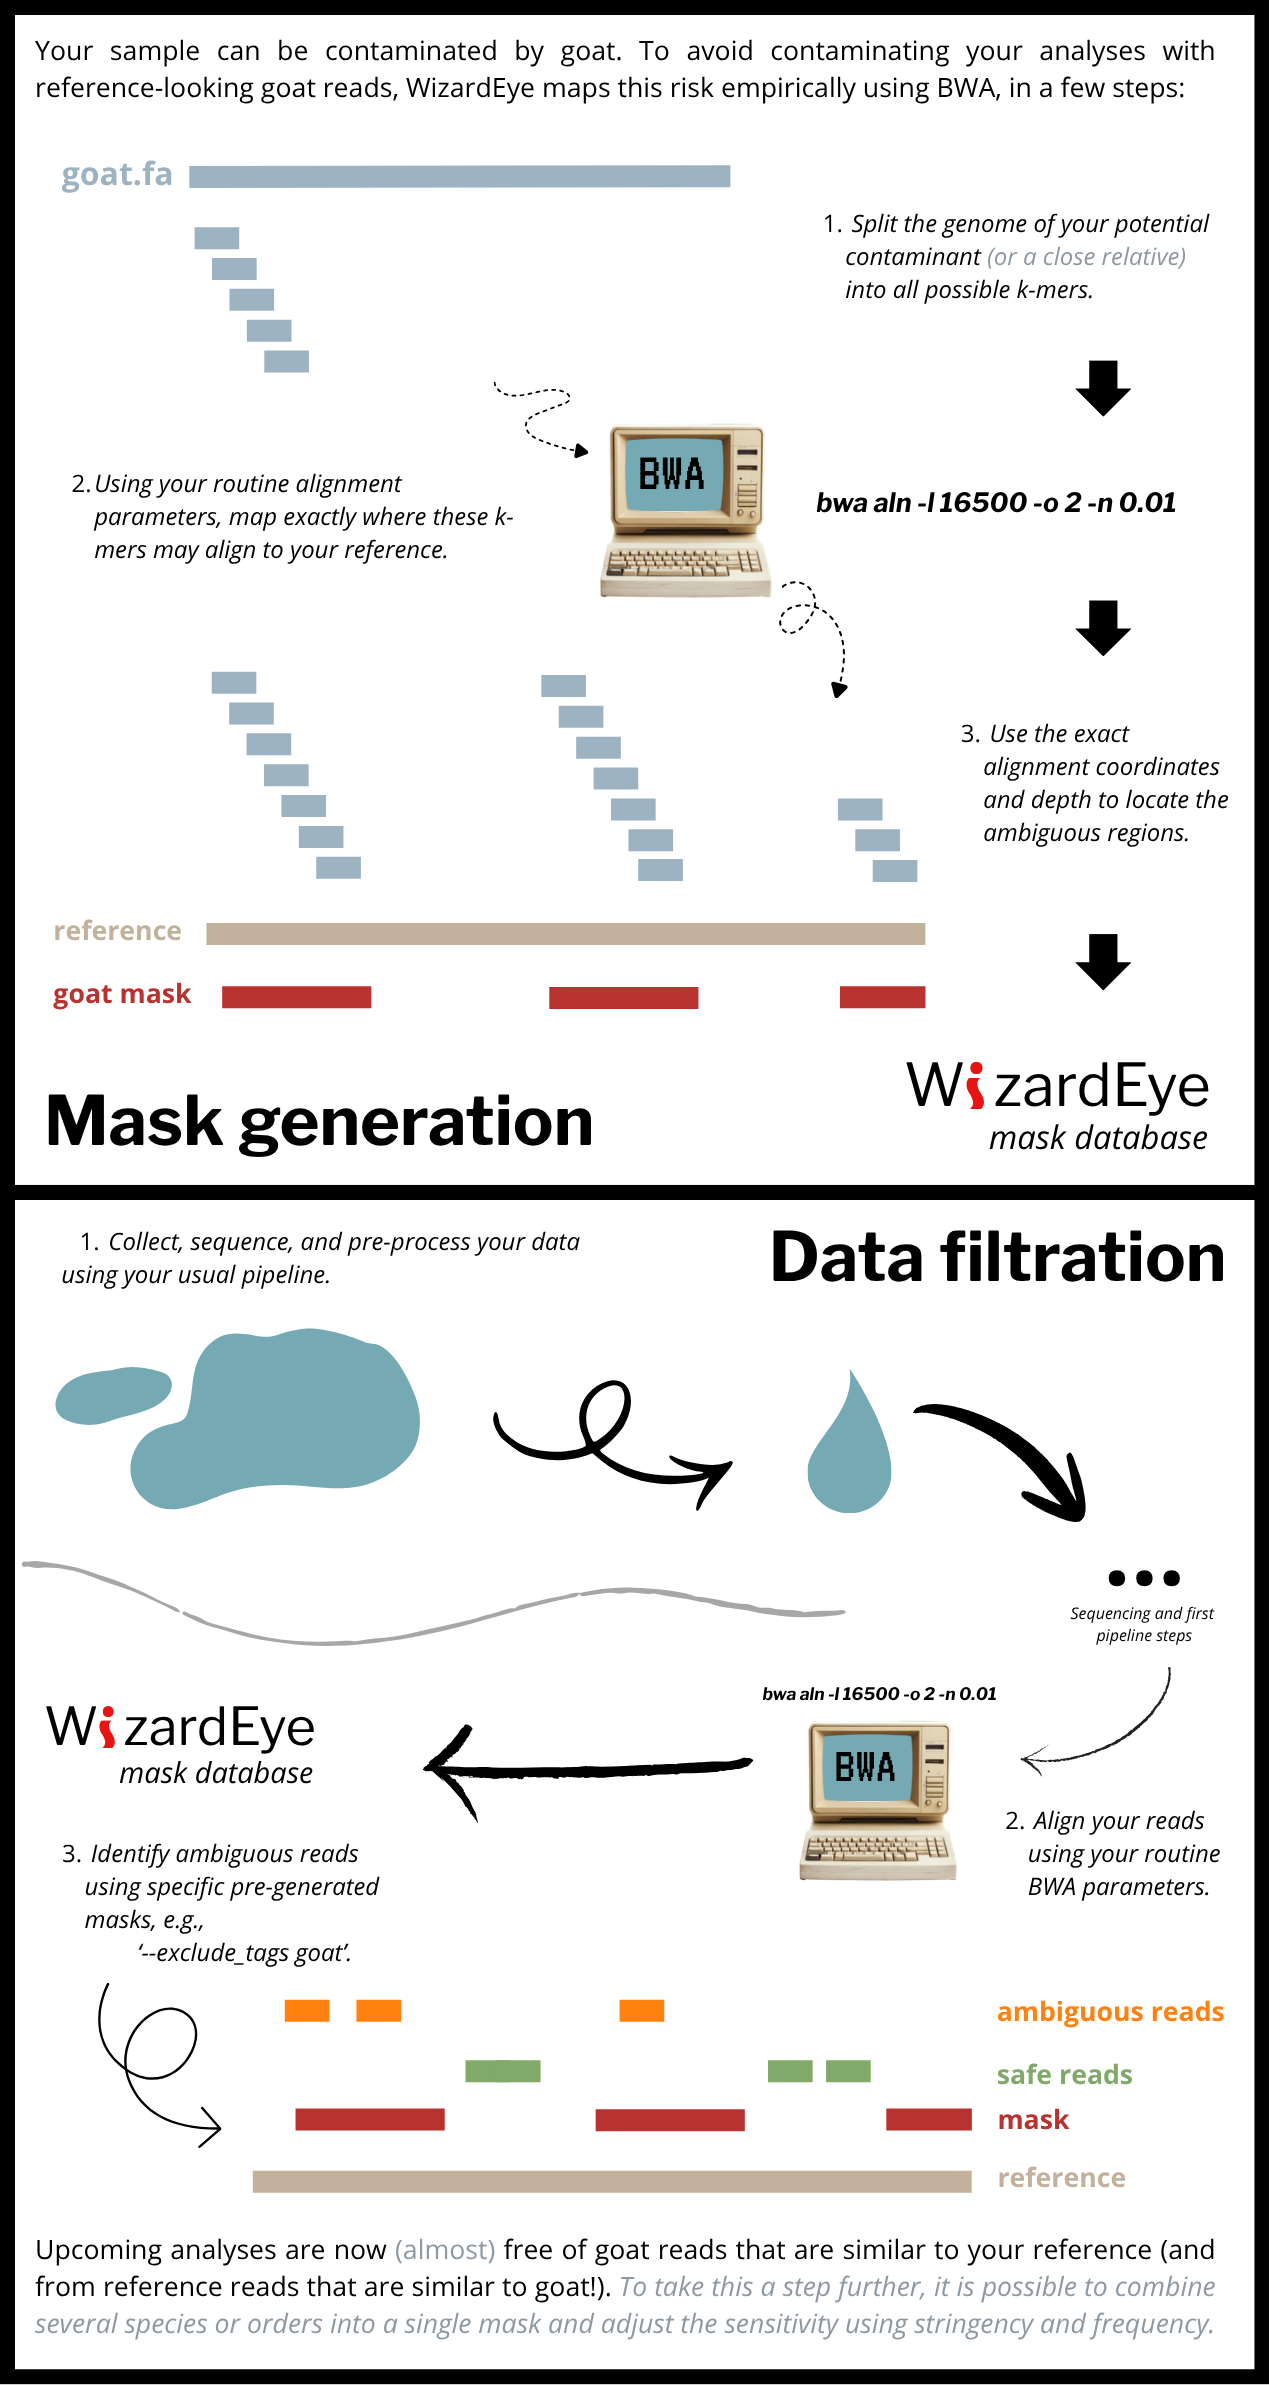
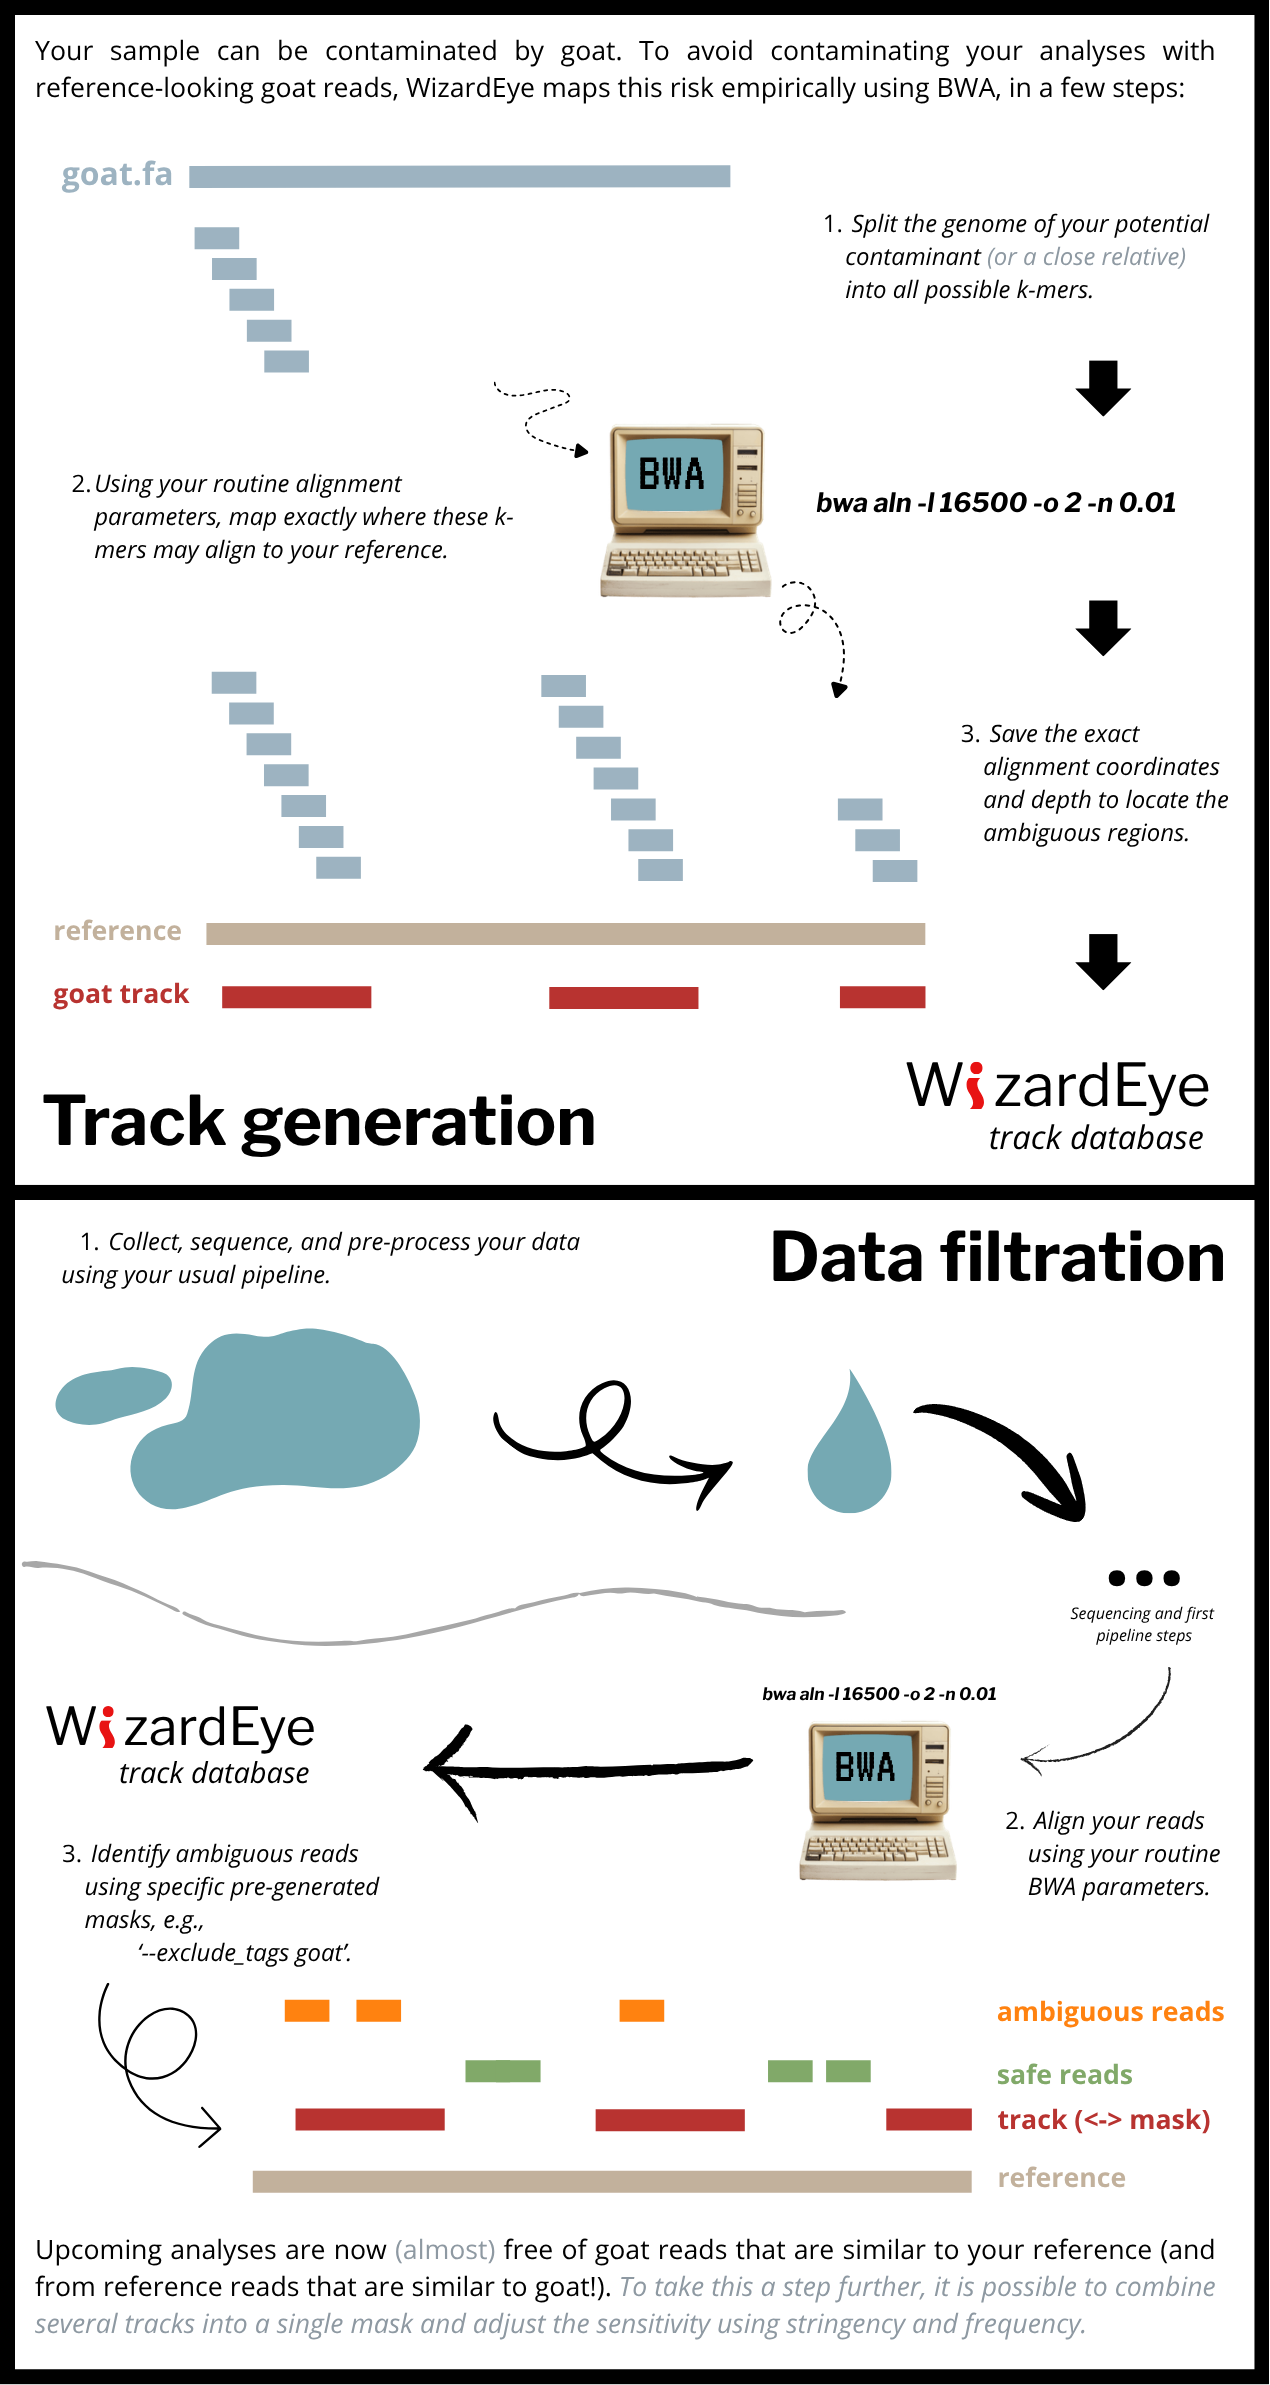
docs: update how_it_works schema and add a schema for stringency/frequency

diff --git a/README.md b/README.md
@@ -221,11 +221,13 @@ If sequence naming differs between BAM and tracks (e.g., `chr1` vs `1`), filteri
 
 #### Adjust the filter hardness
 
+<img src="docs/stringency_and_frequency.png" alt="WizardEye - Filter parameters" width="800" />
+
 ##### Stringency
 
 To balance sensitivity and specificity, you can specify a stringency value during filtering. This criterion is defined as follows.
 
-For a position P in the target, there are exactly -k/-w different possible k-mers overlapping this position perfectly. After mapping, n k-mers can overlap the position (maximum -k/-w if no mismatches are allowed, otherwise more). The position is then highlighted as ambiguous if n/(-k/-w) >= -rc; i.e., if the proportion of overlapping k-mers relative to the total possible k-mers exceeds the stringency.
+For a position P in the target, there are exactly `-k`/`-w` different possible k-mers overlapping this position perfectly. After mapping, n k-mers can overlap the position (maximum `-k`/`-w` if no mismatches are allowed, otherwise more). The position is then highlighted as ambiguous if n/(`-k`/`-w`) >= `-rc`; i.e., if the proportion of overlapping k-mers relative to the total possible k-mers exceeds the stringency.
 
 If `--only-unique` is used, the same behavior and formula apply, but only uniquely aligned k-mers are considered (i.e., k-mers without BWA's `XA` tag and with `MAPQ>0`). For example, with one mismatch allowed, `-k=40`, and `-rc=0.25`, if a position is overlapped by 10 exact k-mers and 10 k-mers with one mismatch, the position is retained only if 10 of these k-mers are unique, regardless of exactness. With `-rc=0.50`, the region is highlighted only if all 20 k-mers map uniquely to it.
 
